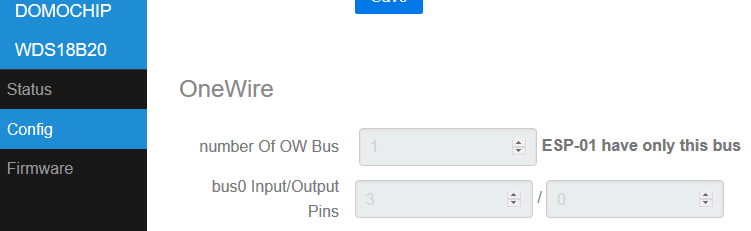
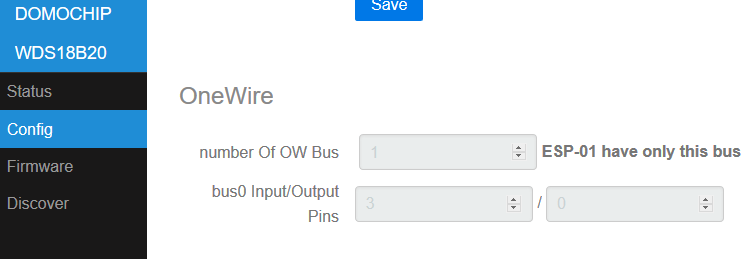
Update README

diff --git a/README.md b/README.md
@@ -39,16 +39,13 @@ Source code can be compiled for :
 - ESP-01 : Pin usage is fixed like in schematic.
 - other ESP8266 models : 1-Wire buses pins can be configured through the configuration webpage
 
-In order to compile you first need to run PowerShell script which is in htmlToCppHeader folder.
-This one compress and then convert into code (PROGMEM variables) the webpages files (into data folder)
-
 ## Run
 
 ### First Boot
 
 During First Boot, the ESP boot in Access Point Mode to allow you configuration
 
-- Network SSID : `WirelessDS18B20`
+- Network SSID : `WirelessDSXXXX`
 - Password : `PasswordDS`
 - ESP IP : `192.168.4.1`
 
@@ -58,11 +55,11 @@ Connect to this network and then configure it.
 
 WirelessDS18B20 offers you some webpages in order to configure it :
 
-- `http://IP/` return you the current status of the module :
+- `Status` return you the current status of the module :
 
 ![status screenshot](https://raw.github.com/Domochip/Wireless-DS18B20-Bus/master/img/status.png)
 
-- `http://IP/config` allows you to change configuration (Wifi and 1-Wire buses (only non-ESP01)) :
+- `Config` allows you to change configuration (Wifi and 1-Wire buses (on non-ESP01)) :
 
 ![config screenshot](https://raw.github.com/Domochip/Wireless-DS18B20-Bus/master/img/config.png)
 
@@ -86,9 +83,13 @@ WirelessDS18B20 offers you some webpages in order to configure it :
 - **Username/Password** : MQTT Username/Password (both are optionnal)
 - **Base Topic** : Prefix of the topic
 
-- `http://IP/fw` allows you to flash a new firmware version :
+- `Firmware` allows you to flash a new firmware version :
 
 ![firmware screenshot](https://raw.github.com/Domochip/Wireless-DS18B20-Bus/master/img/firmware.png)
+
+- `Discover` allows you to find all DomoChip devices on your network :
+
+![discover screenshot](https://raw.github.com/Domochip/Wireless-DS18B20-Bus/master/img/discover.png)
 
 ### Rescue Mode
 
@@ -132,7 +133,7 @@ Then set it up with :
 - command name : Temperature
 - script type : JSON
 - request : Temperature (JSON tag name)
-- URL : `http://**IP**/getTemp?bus=**0**&ROMCode=**0A1B2C3D4E5F6071**`
+- URL : `http://**IP**/getT?bus**0**=**0A1B2C3D4E5F6071**`
 - Unit : °C
 
 ![Script Command Config](https://raw.github.com/Domochip/Wireless-DS18B20-Bus/master/img/JeedomScriptCmdConfig.png)
